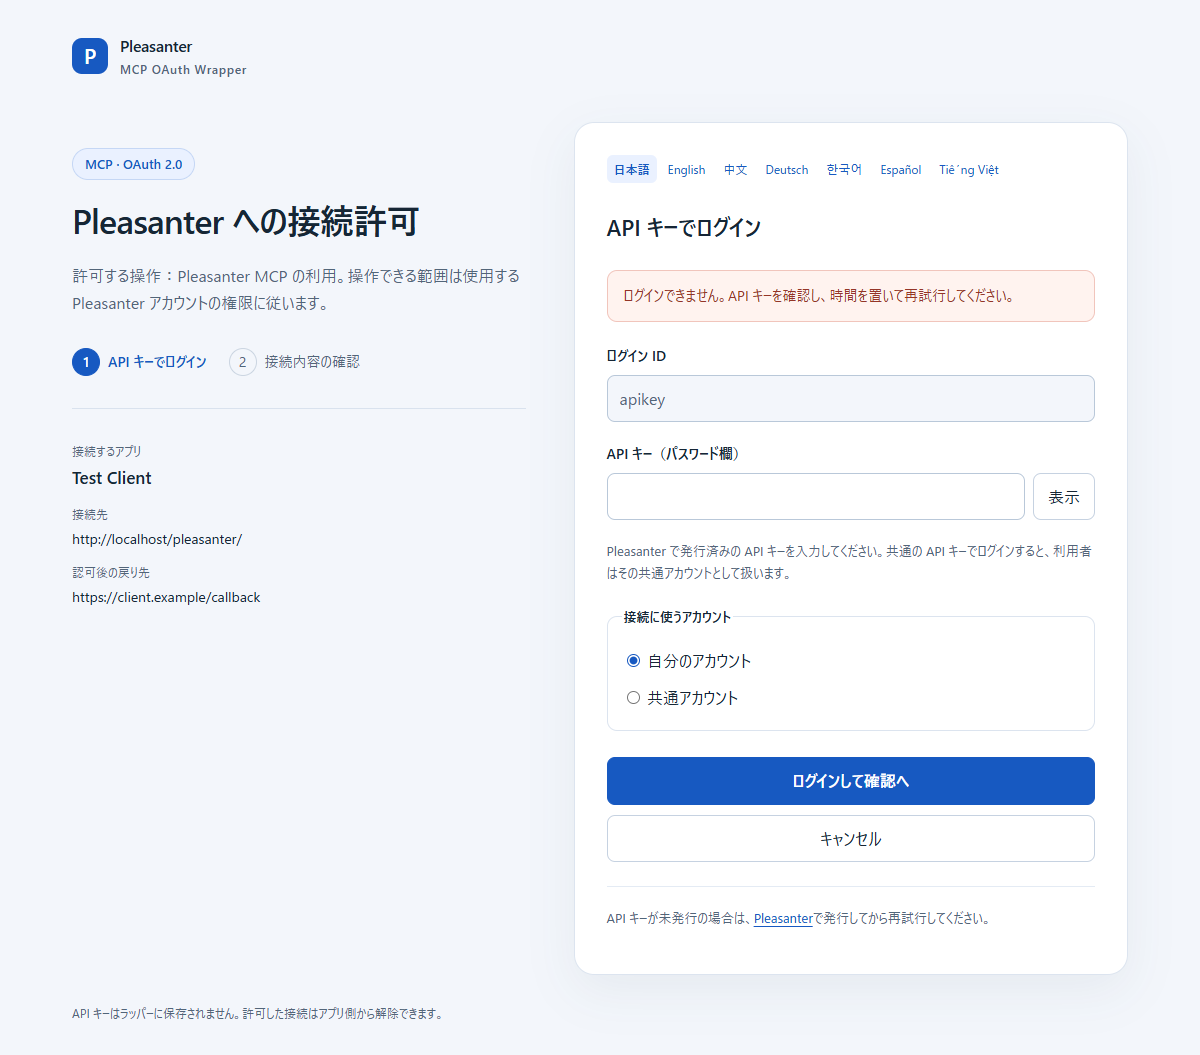
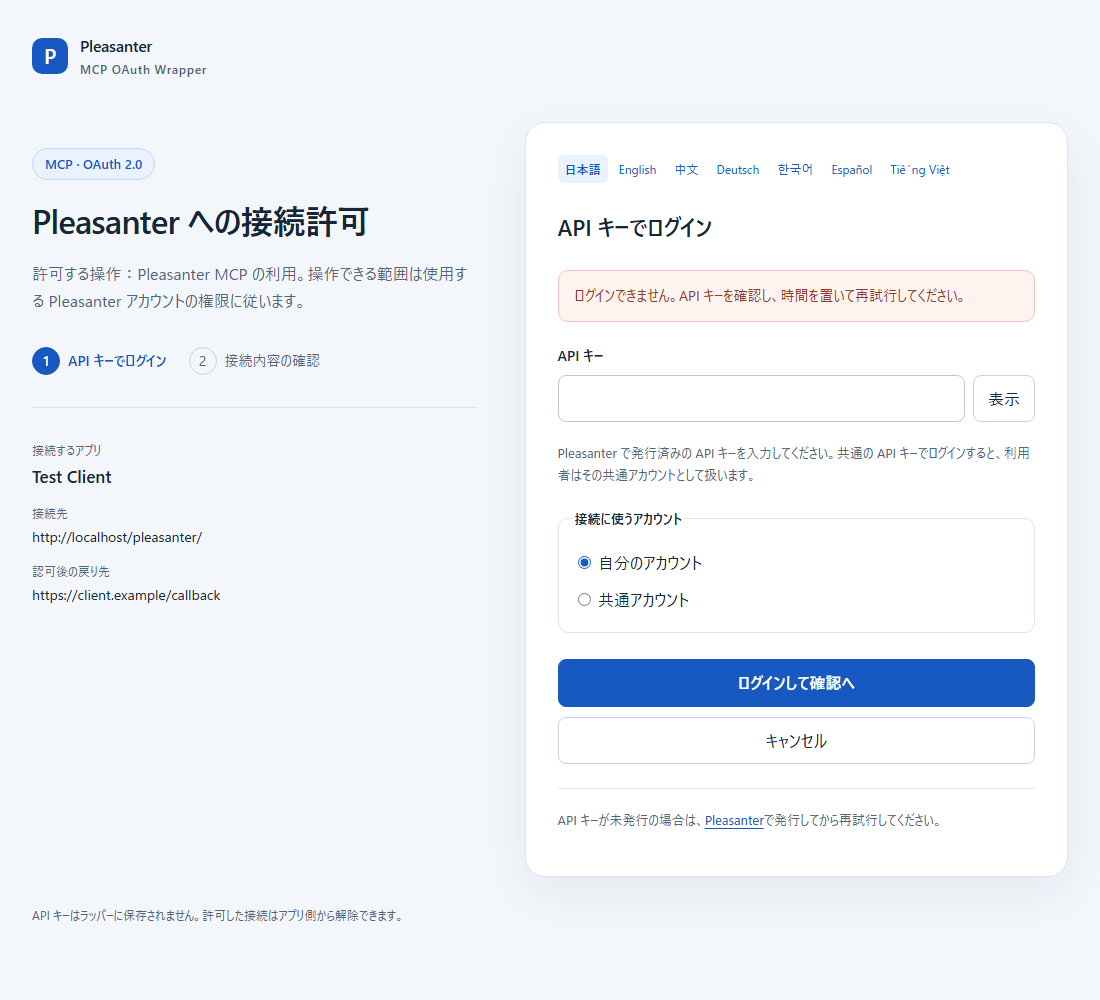
OAuthログインをAPIキーだけの入力に変更する
固定ログインIDは利用者の識別や追加認証に使わないため、入力欄・設定・照合を削除する。フォームをapiKeyに統一し、共通権限の選択と接続同意、OAuth + PKCEは維持する。7言語の文言、ガイド画像、設定例、関連資料とテストを更新した。

検証: 通常設定でReleaseビルド成功（警告・エラー0件）。証明書ストア制限を避ける一時鍵で通常テスト64件成功、KVS専用5件はスキップ。検証用変更は復元済み。Markdown lint 17ファイル・エラー0件、git diff --check成功。

Issue作成は組織SSOの制限により、利用者の了承を得て後回しにした。Pleasanter実機とAIアプリ経由の再検証は未実施。

diff --git a/tests/VehicleVision.PleasanterTools.McpOAuthWrapper.Tests/BridgeFlowTests.cs b/tests/VehicleVision.PleasanterTools.McpOAuthWrapper.Tests/BridgeFlowTests.cs
@@ -145,7 +145,7 @@ public sealed class BridgeFlowTests
             Assert.Single(initial.Headers.GetValues("Content-Security-Policy")));
         var page = await initial.Content.ReadAsStringAsync();
         using var consent = await PostAsync(browser, AuthorizationUrl(), page,
-            new() { ["decision"] = "login", ["loginId"] = "apikey", ["password"] = "original-key" });
+            new() { ["decision"] = "login", ["apiKey"] = "original-key" });
         Assert.Equal(initial.Headers.GetValues("Content-Security-Policy"), consent.Headers.GetValues("Content-Security-Policy"));
     }
     [Theory]
@@ -164,9 +164,9 @@ public sealed class BridgeFlowTests
         var page = await PageAsync(browser, url);
         Assert.Contains($"lang=\"{culture}\"", page);
         Assert.Contains(title, WebUtility.HtmlDecode(page));
-        var rejected = await PostAsync(browser, url, page, new() { ["decision"] = "login", ["loginId"] = "apikey", ["password"] = "wrong" });
+        var rejected = await PostAsync(browser, url, page, new() { ["decision"] = "login", ["apiKey"] = "wrong" });
         Assert.Contains(error, WebUtility.HtmlDecode(await rejected.Content.ReadAsStringAsync()));
-        var loggedIn = await PostAsync(browser, url, page, new() { ["decision"] = "login", ["loginId"] = "apikey", ["password"] = "original-key" });
+        var loggedIn = await PostAsync(browser, url, page, new() { ["decision"] = "login", ["apiKey"] = "original-key" });
         var consent = await loggedIn.Content.ReadAsStringAsync();
         Assert.Contains(title, WebUtility.HtmlDecode(consent));
         Assert.Contains("/account/consent?culture=" + culture, consent);
@@ -223,7 +223,7 @@ public sealed class BridgeFlowTests
         using var browser = factory.Browser();
         var url = AuthorizationUrl();
         var page = await PageAsync(browser, url);
-        var login = await PostAsync(browser, url, page, new() { ["decision"] = "login", ["loginId"] = "apikey", ["password"] = "original-key" });
+        var login = await PostAsync(browser, url, page, new() { ["decision"] = "login", ["apiKey"] = "original-key" });
         var consent = await login.Content.ReadAsStringAsync();
         factory.ChangeUser("ApiKey", "replacement-key");
         var approved = await PostAsync(browser, url, consent, new() { ["decision"] = "approve", ["ticket"] = Hidden(consent, "ticket") });
@@ -244,7 +244,7 @@ public sealed class BridgeFlowTests
         using var browser = factory.Browser();
         var url = AuthorizationUrl();
         var page = await PageAsync(browser, url);
-        var login = await PostAsync(browser, url, page, new() { ["decision"] = "login", ["loginId"] = "apikey", ["password"] = apiKey });
+        var login = await PostAsync(browser, url, page, new() { ["decision"] = "login", ["apiKey"] = apiKey });
         var html = await login.Content.ReadAsStringAsync();
         Assert.DoesNotContain("name=\"ticket\"", html);
         Assert.DoesNotContain(apiKey, html);
@@ -466,7 +466,7 @@ public sealed class BridgeFlowTests
         using var browser = factory.Browser();
         var url = AuthorizationUrl();
         var page = await PageAsync(browser, url);
-        var response = await PostAsync(browser, url, page, new() { ["decision"] = "login", ["loginId"] = "apikey", ["password"] = "original-key" });
+        var response = await PostAsync(browser, url, page, new() { ["decision"] = "login", ["apiKey"] = "original-key" });
         Assert.Equal(HttpStatusCode.OK, response.StatusCode);
         Assert.Contains("API キー", WebUtility.HtmlDecode(await response.Content.ReadAsStringAsync()));
         Assert.Null(response.Headers.Location);
@@ -482,7 +482,7 @@ public sealed class BridgeFlowTests
         using var browser = factory.Browser();
         var url = AuthorizationUrl();
         var page = await browser.GetStringAsync(url);
-        var response = await PostAsync(browser, url, page, new() { ["decision"] = "login", ["loginId"] = "apikey", ["password"] = password });
+        var response = await PostAsync(browser, url, page, new() { ["decision"] = "login", ["apiKey"] = password });
         var html = await response.Content.ReadAsStringAsync();
         Assert.DoesNotContain("name=\"ticket\"", html);
         Assert.Contains("ログインできません", WebUtility.HtmlDecode(html));
@@ -495,10 +495,10 @@ public sealed class BridgeFlowTests
         using var browser = factory.Browser();
         var url = AuthorizationUrl();
         var noCsrf = await browser.PostAsync("/account/login", new FormUrlEncodedContent(new Dictionary<string, string>
-        { ["decision"] = "login", ["loginId"] = "apikey", ["password"] = "original-key" }));
+        { ["decision"] = "login", ["apiKey"] = "original-key" }));
         Assert.Equal(HttpStatusCode.BadRequest, noCsrf.StatusCode);
         var login = await browser.GetStringAsync(url);
-        var consentResponse = await PostAsync(browser, url, login, new() { ["decision"] = "login", ["loginId"] = "apikey", ["password"] = "original-key" });
+        var consentResponse = await PostAsync(browser, url, login, new() { ["decision"] = "login", ["apiKey"] = "original-key" });
         var consent = await consentResponse.Content.ReadAsStringAsync();
         var form = new Dictionary<string, string> { ["decision"] = "approve", ["ticket"] = Hidden(consent, "ticket") };
         var approval = await PostAsync(browser, url, consent, form);
@@ -522,8 +522,7 @@ public sealed class BridgeFlowTests
         var response = await PostAsync(browser, url, page, new()
         {
             ["decision"] = decision,
-            ["loginId"] = "apikey",
-            ["password"] = "wrong"
+            ["apiKey"] = "wrong"
         });
         Assert.DoesNotContain("name=\"ticket\"", await response.Content.ReadAsStringAsync());
         Assert.DoesNotContain("code=", response.Headers.Location?.Query ?? "");
@@ -560,7 +559,7 @@ public sealed class BridgeFlowTests
     }
 
     [Fact]
-    public async Task 別OriginとURL内のトークンとログインIDへのSQL注入を拒否する()
+    public async Task 別OriginとURL内のトークンとAPIキーへのSQL注入を拒否する()
     {
         using var factory = new BridgeFactory();
         using var browser = factory.Browser();
@@ -574,8 +573,7 @@ public sealed class BridgeFlowTests
         var injected = await PostAsync(browser, url, page, new()
         {
             ["decision"] = "login",
-            ["loginId"] = "alice' OR 1=1 --",
-            ["password"] = "original-key"
+            ["apiKey"] = "alice' OR 1=1 --"
         });
         Assert.DoesNotContain("name=\"ticket\"", await injected.Content.ReadAsStringAsync());
         Assert.Empty(factory.Upstream.Keys);
@@ -639,34 +637,29 @@ public sealed class BridgeFlowTests
         var url = AuthorizationUrl();
         var login = await browser.GetStringAsync(url);
         for (var i = 0; i < 5; i++)
-            await PostAsync(browser, url, login, new() { ["decision"] = "login", ["loginId"] = "apikey", ["password"] = "wrong" });
-        var correct = await PostAsync(browser, url, login, new() { ["decision"] = "login", ["loginId"] = "apikey", ["password"] = "original-key" });
+            await PostAsync(browser, url, login, new() { ["decision"] = "login", ["apiKey"] = "wrong" });
+        var correct = await PostAsync(browser, url, login, new() { ["decision"] = "login", ["apiKey"] = "original-key" });
         Assert.DoesNotContain("name=\"ticket\"", await correct.Content.ReadAsStringAsync());
     }
 
     [Fact]
-    public async Task 設定した固定ログインIDだけを受け入れAPIキーを画面へ返さない()
+    public async Task ログインIDなしでAPIキーだけで認証しキーを画面へ返さない()
     {
-        using var factory = new BridgeFactory(apiKeyLoginId: "connector");
+        using var factory = new BridgeFactory();
         using var browser = factory.Browser();
         var url = AuthorizationUrl();
         var page = await PageAsync(browser, url);
-        Assert.Contains("value=\"connector\"", page);
-        var rejected = await PostAsync(browser, url, page, new()
-        {
-            ["decision"] = "login",
-            ["loginId"] = "apikey",
-            ["password"] = "original-key"
-        });
-        Assert.DoesNotContain("name=\"ticket\"", await rejected.Content.ReadAsStringAsync());
+        Assert.DoesNotContain("name=\"loginId\"", page);
+        Assert.DoesNotContain("name=\"password\"", page);
+        Assert.Contains("name=\"apiKey\"", page);
         var accepted = await PostAsync(browser, url, page, new()
         {
             ["decision"] = "login",
-            ["loginId"] = "connector",
-            ["password"] = "original-key"
+            ["apiKey"] = "original-key"
         });
         var html = await accepted.Content.ReadAsStringAsync();
         Assert.Contains("name=\"ticket\"", html);
+        Assert.Contains("alice", html);
         Assert.DoesNotContain("original-key", html);
     }
     private const string Callback = "https://client.example/callback";
@@ -698,8 +691,7 @@ public sealed class BridgeFlowTests
         var loggedIn = await PostAsync(browser, url, page, new()
         {
             ["decision"] = "login",
-            ["loginId"] = "apikey",
-            ["password"] = loginId == "bob" ? "bob-key" : loginId == "shared" ? "shared-key" : "original-key",
+            ["apiKey"] = loginId == "bob" ? "bob-key" : loginId == "shared" ? "shared-key" : "original-key",
             ["keyMode"] = shared ? "shared" : "personal"
         });
         var consent = await loggedIn.Content.ReadAsStringAsync();
@@ -747,16 +739,14 @@ public sealed class BridgeFlowTests
         public string KvsPrefix { get; }
         private readonly bool _shared;
         private readonly bool _dynamicRegistration;
-        private readonly string _apiKeyLoginId;
         private readonly string _issuer;
         private readonly string _upstream;
         public BridgeFactory(bool shared = false, bool dynamicRegistration = false,
-            string issuer = "http://localhost/", string upstream = "http://localhost/pleasanter/", string apiKeyLoginId = "apikey", string? kvsPrefix = null, int maxDynamicClients = 100)
+            string issuer = "http://localhost/", string upstream = "http://localhost/pleasanter/", string? kvsPrefix = null, int maxDynamicClients = 100)
         {
             KvsPrefix = kvsPrefix ?? "test-" + Guid.NewGuid().ToString("N");
             _shared = shared;
             _dynamicRegistration = dynamicRegistration;
-            _apiKeyLoginId = apiKeyLoginId;
             _issuer = issuer;
             _upstream = upstream;
             Directory.CreateDirectory(Path.Combine(Root, "App_Data", "Parameters"));
@@ -764,7 +754,6 @@ public sealed class BridgeFlowTests
             File.WriteAllText(Path.Combine(parameters, "General.json"), JsonSerializer.Serialize(new BridgeOptions
             {
                 Enabled = true,
-                ApiKeyLoginId = _apiKeyLoginId,
                 Issuer = _issuer,
                 PleasanterUrl = _upstream,
                 AllowDevelopmentHttp = true,

diff --git a/src/VehicleVision.PleasanterTools.McpOAuthWrapper/Controllers/AuthorizationController.cs b/src/VehicleVision.PleasanterTools.McpOAuthWrapper/Controllers/AuthorizationController.cs
@@ -16,7 +16,7 @@ namespace VehicleVision.PleasanterTools.McpOAuthWrapper.Controllers;
 
 public sealed record ConsentView(string ClientName, string RedirectUri, string ActionUrl,
     string PleasanterUrl, bool AllowSharedKey, string RequestTicket, string? Error = null,
-    string? Ticket = null, string? LoginId = null, string? KeyDescription = null, string ApiKeyLoginId = "apikey");
+    string? Ticket = null, string? LoginId = null, string? KeyDescription = null);
 
 [EnableRateLimiting("oauth")]
 [RequestSizeLimit(16384)]
@@ -62,10 +62,10 @@ public sealed class AuthorizationController(BridgeOptions options, IPleasanterUs
         return View("Consent", ViewFor(info));
     }
 
-    // パスワードは OAuth エンドポイントへ送らず、プロトコルのログに混入させない。
+    // API キーは OAuth エンドポイントへ送らず、プロトコルのログに混入させない。
     [HttpPost("/account/login")]
     [ValidateAntiForgeryToken]
-    public async Task<IActionResult> Login([FromForm] string? loginId, [FromForm] string? password,
+    public async Task<IActionResult> Login([FromForm] string? apiKey,
         [FromForm] string? keyMode, [FromForm] string? requestTicket, [FromForm] string? decision,
         CancellationToken cancellationToken)
     {
@@ -73,12 +73,12 @@ public sealed class AuthorizationController(BridgeOptions options, IPleasanterUs
         if (info is null) return BadRequest();
         if (decision == "deny") return Denied(info);
         var attemptId = "api-key-ip:" + (HttpContext.Connection.RemoteIpAddress?.ToString() ?? "unknown");
-        if (decision != "login" || !string.Equals(loginId, options.ApiKeyLoginId, StringComparison.Ordinal)
-            || string.IsNullOrEmpty(password) || password.Length > 1024
+        if (decision != "login"
+            || string.IsNullOrEmpty(apiKey) || apiKey.Length > 1024
             || !await guard.TryAttemptAsync(options.TenantId, attemptId, cancellationToken))
             return View("Consent", ViewFor(info, text["LoginFailed"].Value));
-        var authenticated = await users.FindByApiKeyAsync(options.TenantId, password, cancellationToken);
-        if (authenticated is null || !authenticated.VerifyApiKey(password) || !authenticated.CanUseApi(options.DatabaseNow))
+        var authenticated = await users.FindByApiKeyAsync(options.TenantId, apiKey, cancellationToken);
+        if (authenticated is null || !authenticated.VerifyApiKey(apiKey) || !authenticated.CanUseApi(options.DatabaseNow))
             return View("Consent", ViewFor(info, text["LoginFailed"].Value));
         await guard.ReleaseAsync(options.TenantId, attemptId, cancellationToken);
         var ownerId = keyMode == "shared" ? options.SharedApiKeyUserId ?? 0 : authenticated.UserId;
@@ -149,7 +149,7 @@ public sealed class AuthorizationController(BridgeOptions options, IPleasanterUs
         var callback = new Uri(info.RedirectUri).GetLeftPart(UriPartial.Authority);
         Response.Headers["Content-Security-Policy"] = $"default-src 'none'; style-src 'self'; script-src 'self'; form-action 'self' {callback}; frame-ancestors 'none'; base-uri 'none'";
         return new(info.ClientName, info.RedirectUri, CultureUrl("/account/login"), options.PleasanterUrl,
-            options.SharedApiKeyUserId.HasValue, Protect(info), error, ApiKeyLoginId: options.ApiKeyLoginId);
+            options.SharedApiKeyUserId.HasValue, Protect(info), error);
     }
     private static string CultureUrl(string path) => path + "?culture=" + Uri.EscapeDataString(System.Globalization.CultureInfo.CurrentUICulture.Name);
     private string Protect<T>(T data) => Protector<T>().Protect(JsonSerializer.Serialize(data), TimeSpan.FromMinutes(5));

diff --git a/src/VehicleVision.PleasanterTools.McpOAuthWrapper/Bridge/BridgeSetup.cs b/src/VehicleVision.PleasanterTools.McpOAuthWrapper/Bridge/BridgeSetup.cs
@@ -27,8 +27,6 @@ public static class BridgeSetup
             throw new InvalidOperationException("Dbms は PostgreSQL、SQLServer、MySQL のいずれかです。");
         if (options.TenantId <= 0 || options.SharedApiKeyUserId is <= 0)
             throw new InvalidOperationException("TenantId と共通キーの所有者 ID を確認してください。");
-        if (string.IsNullOrWhiteSpace(options.ApiKeyLoginId) || options.ApiKeyLoginId.Length > 256)
-            throw new InvalidOperationException("ApiKeyLoginId は1～256文字で設定してください。");
         if (options.MaxDynamicClients is < 1 or > 10000)
             throw new InvalidOperationException("MaxDynamicClients は 1～10000 で設定してください。");
         _ = TimeZoneInfo.FindSystemTimeZoneById(options.DatabaseTimeZoneId);

diff --git a/src/VehicleVision.PleasanterTools.McpOAuthWrapper/Bridge/BridgeOptions.cs b/src/VehicleVision.PleasanterTools.McpOAuthWrapper/Bridge/BridgeOptions.cs
@@ -3,7 +3,6 @@ namespace VehicleVision.PleasanterTools.McpOAuthWrapper.Bridge;
 public sealed class BridgeOptions
 {
     public bool Enabled { get; set; }
-    public string ApiKeyLoginId { get; set; } = "apikey";
     public string Issuer { get; set; } = "https://localhost:7042/";
     public string PleasanterUrl { get; set; } = "https://localhost/";
     public int TenantId { get; set; } = 1;

diff --git a/_development/検証記録.md b/_development/検証記録.md
@@ -73,3 +73,13 @@ SQL Server の暗号化設定について、省略・False・Optional・True・S
 リリース候補 v0.1.0 の版検査、ZIP と SHA-256 の生成、秘密・実設定・参照ソースの除外をローカルで確認しました。実際のリリースタグ作成と GitHub Releases 公開は実行していません。PR の Release ワークフローで公開しない経路も検査します。
 
 認可コードを同時に交換した場合は、再利用検出により認可全体を失効し、両方の交換を拒否する場合があります。HTTP テストは二重発行なし・拒否が invalid_grant・エラー応答にトークンなしを確認します。ストアの原子的な消費は2並列の成功1件と、最新版の再読み込み後の再消費拒否を確認します。根拠：[RFC 6749 §4.1.2](https://www.rfc-editor.org/rfc/rfc6749#section-4.1.2)。参照日：2026-10-06。
+
+## API キーだけのログイン入力（2026-10-08）
+
+固定ログイン ID 欄と ApiKeyLoginId 設定・照合を削除し、フォームは apiKey だけで利用者を認証する形へ変更しました。共通権限の選択、同意、Authorization Code + PKCE、Users の状態検証、API キー非保存は維持します。
+
+通常の Release ビルドは警告・エラー0件で成功しました。Windows サンドボックスでは開発用証明書ストアとイベントログへのアクセスが拒否され、通常設定での HTTP テストは実行できませんでした。検証時だけ開発用証明書をメモリ上の一時署名・暗号化鍵に差し替え、イベントログ出力を無効化した実行では、通常テスト64件が成功し、KVS専用5件をスキップしました。追加の画面撮影用テスト1件も成功しました。検証用の鍵変更と画面撮影用テストは実行後に削除し、通常設定で Release ビルドを再実行しました。KVS・Pleasanter 実機・AI アプリ経由の再検証は実施していません。
+
+ガイドの7言語・エラー・モバイルのログイン画像は、合成 Users を使う HTTP テストから生成した HTML をヘッドレス Chrome で描画しました。撮影用 HTML の hidden 入力を除去し、キーやトークンを画像へ含めていません。変更していない同意画面は従来の合成環境の画像です。
+
+Issue 作成は GitHub 連携の組織 SSO 制限で拒否され、利用者の了承により後回しにしました。実装時点ではサンドボックスで .git が読み取り専用でしたが、利用者のコミット指示後に書き込み権限を取得し、develop から fix/api-key-only-login ブランチを作成しました。PR 作成は未実施です。

diff --git a/_documents/利用ガイド.md b/_documents/利用ガイド.md
@@ -1,6 +1,6 @@
 # 接続の流れと画面
 
-接続前に Pleasanter で API キーを発行してください。本書の画面は検証環境で撮影した実際のラッパーです。AI アプリ側の画面は製品や組織設定によって異なります。
+接続前に Pleasanter で API キーを発行してください。本書のログイン画面・エラー画面・モバイル画面は、合成 Users を使った HTTP テストでラッパーが生成した HTML をブラウザーで描画したものです。同意画面は従来の合成データ検証環境で撮影したラッパーです。AI アプリ側の画面は製品や組織設定によって異なります。
 
 ```mermaid
 sequenceDiagram
@@ -10,7 +10,7 @@ sequenceDiagram
     participant Pleasanter
     AIアプリ->>ラッパー: MCP 接続と OAuth 認可要求
     ラッパー->>利用者: ログイン画面
-    利用者->>ラッパー: 固定ログイン ID と発行済み API キー
+    利用者->>ラッパー: 発行済み API キー
     ラッパー->>Pleasanter: Users を読み取り、キーとアカウントを確認
     ラッパー->>利用者: 接続先・アプリ・利用する権限の確認
     利用者->>ラッパー: 接続を許可
@@ -22,7 +22,7 @@ sequenceDiagram
 
 ## 1. ログイン
 
-AI アプリでコネクタを接続すると、この画面へ移ります。ログイン ID は固定値（既定 apikey）です。API キーをパスワード欄へ入力し、使用するアカウントを選びます。共通アカウントの選択肢は管理者が設定した場合だけ表示されます。
+AI アプリでコネクタを接続すると、この画面へ移ります。発行済みの API キーを入力し、使用するアカウントを選びます。共通アカウントの選択肢は管理者が設定した場合だけ表示されます。
 
 ![ログイン画面](images/login-ja.png)
 

diff --git a/_documents/アーキテクチャ方針.md b/_documents/アーキテクチャ方針.md
@@ -4,7 +4,7 @@
 
 OpenIddict による Authorization Code + PKCE（S256）の認可サーバーと、YARP による HTTP 中継を提供する。MCP のツール・メッセージは解釈せず、GET／POST／DELETE と SSE を Pleasanter に中継する。Pleasanter のアセンブリ・MCP ツール定義・バージョン番号には依存しない。
 
-ログイン ID は General.json の ApiKeyLoginId（初期値 apikey）と完全一致で検証し、パスワード欄に入力された API キーを固定 TenantId 内の Users と照合する。SQL はパラメーター化し、キーの照合が大文字小文字を区別しないデータベースでも、取得した値と固定時間比較する。重複キーは拒否する。無効化・ロックアウト・利用期限を確認し、データベースへの書き込みは行わない。Password と TOTP 登録状態は認証に使わない。
+ログイン画面では API キーだけを入力し、固定 TenantId 内の Users と照合して利用者を特定する。SQL はパラメーター化し、キーの照合が大文字小文字を区別しないデータベースでも、取得した値と固定時間比較する。重複キーは拒否する。無効化・ロックアウト・利用期限を確認し、データベースへの書き込みは行わない。Password と TOTP 登録状態は認証に使わない。
 
 個人の API キーで認証した利用者は、個人または管理者が指定した共通アカウントを選び、認可画面で確認する。OAuth の主体はログインした本人で、API キー所有者 ID を別に保持する。共通キーの場合、Pleasanter 側の操作主体・権限・監査は共通アカウントになる。
 
